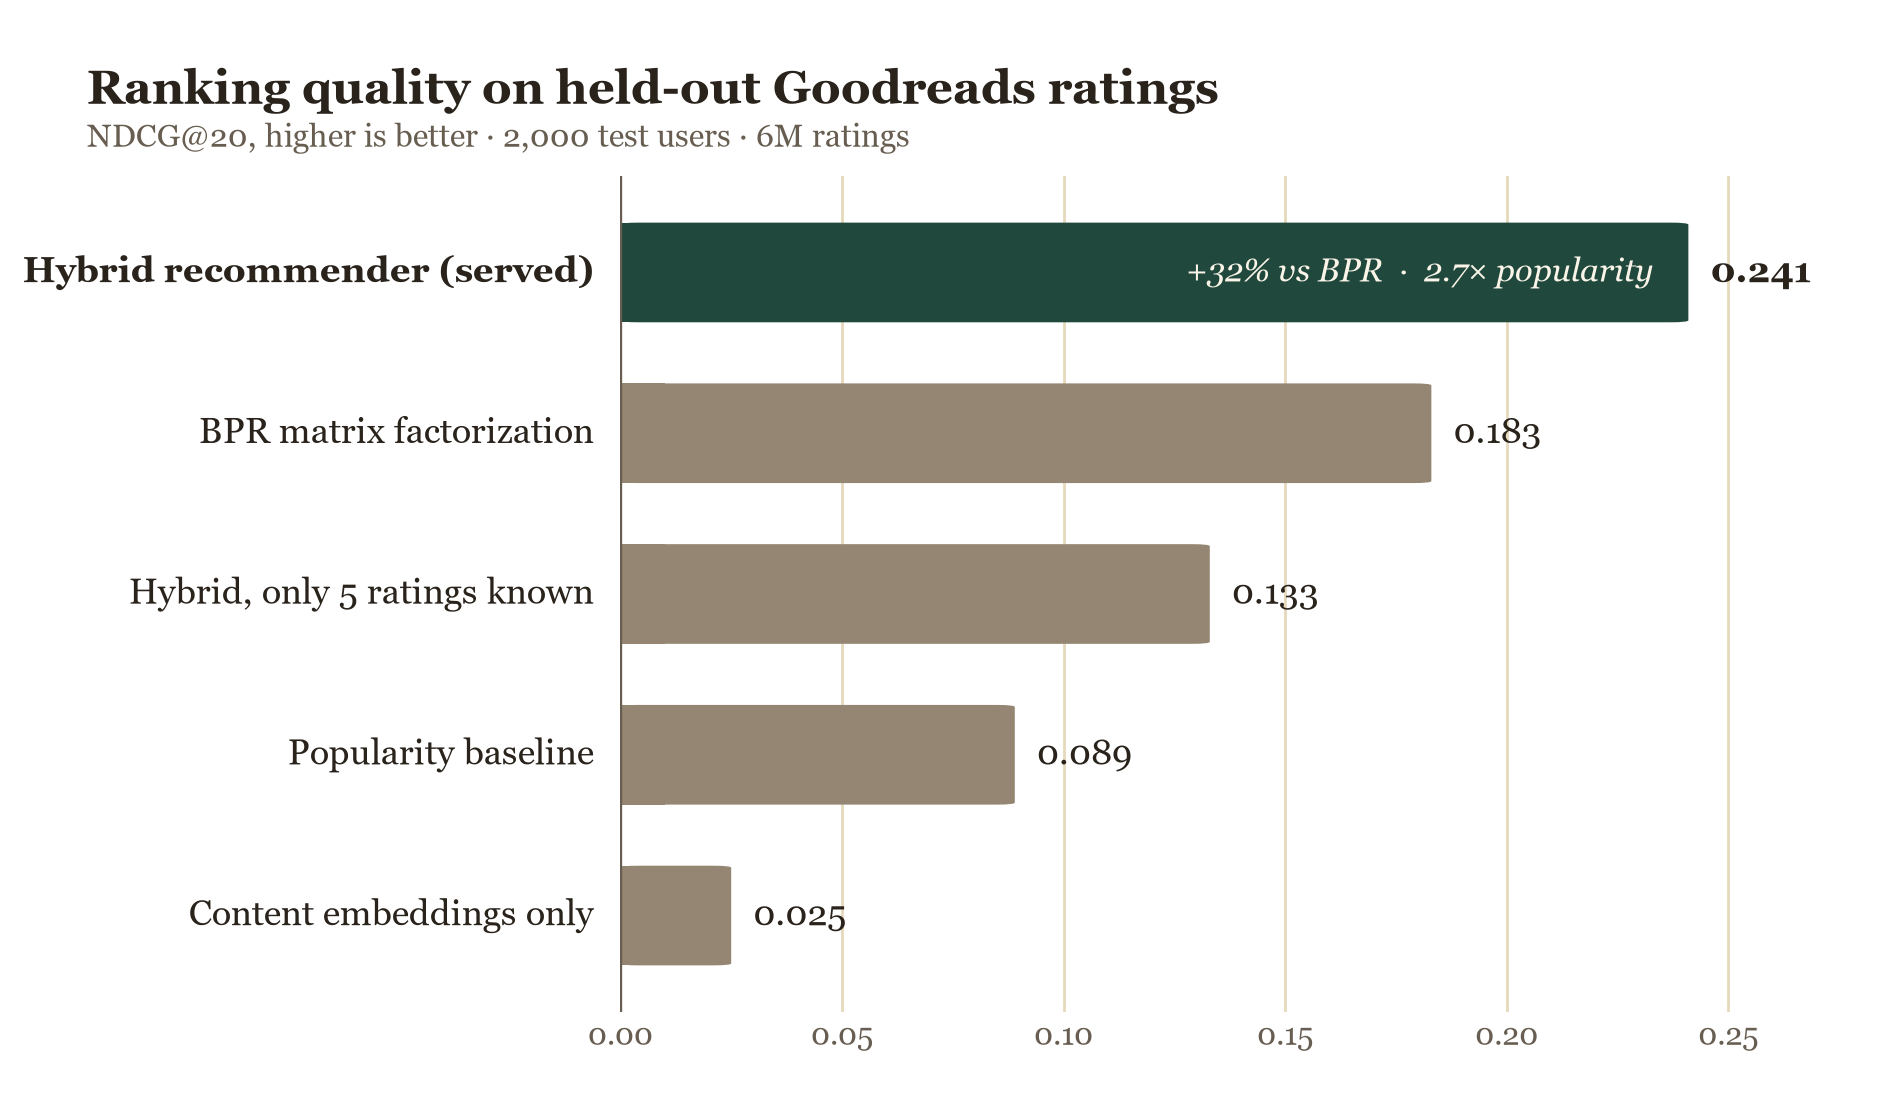
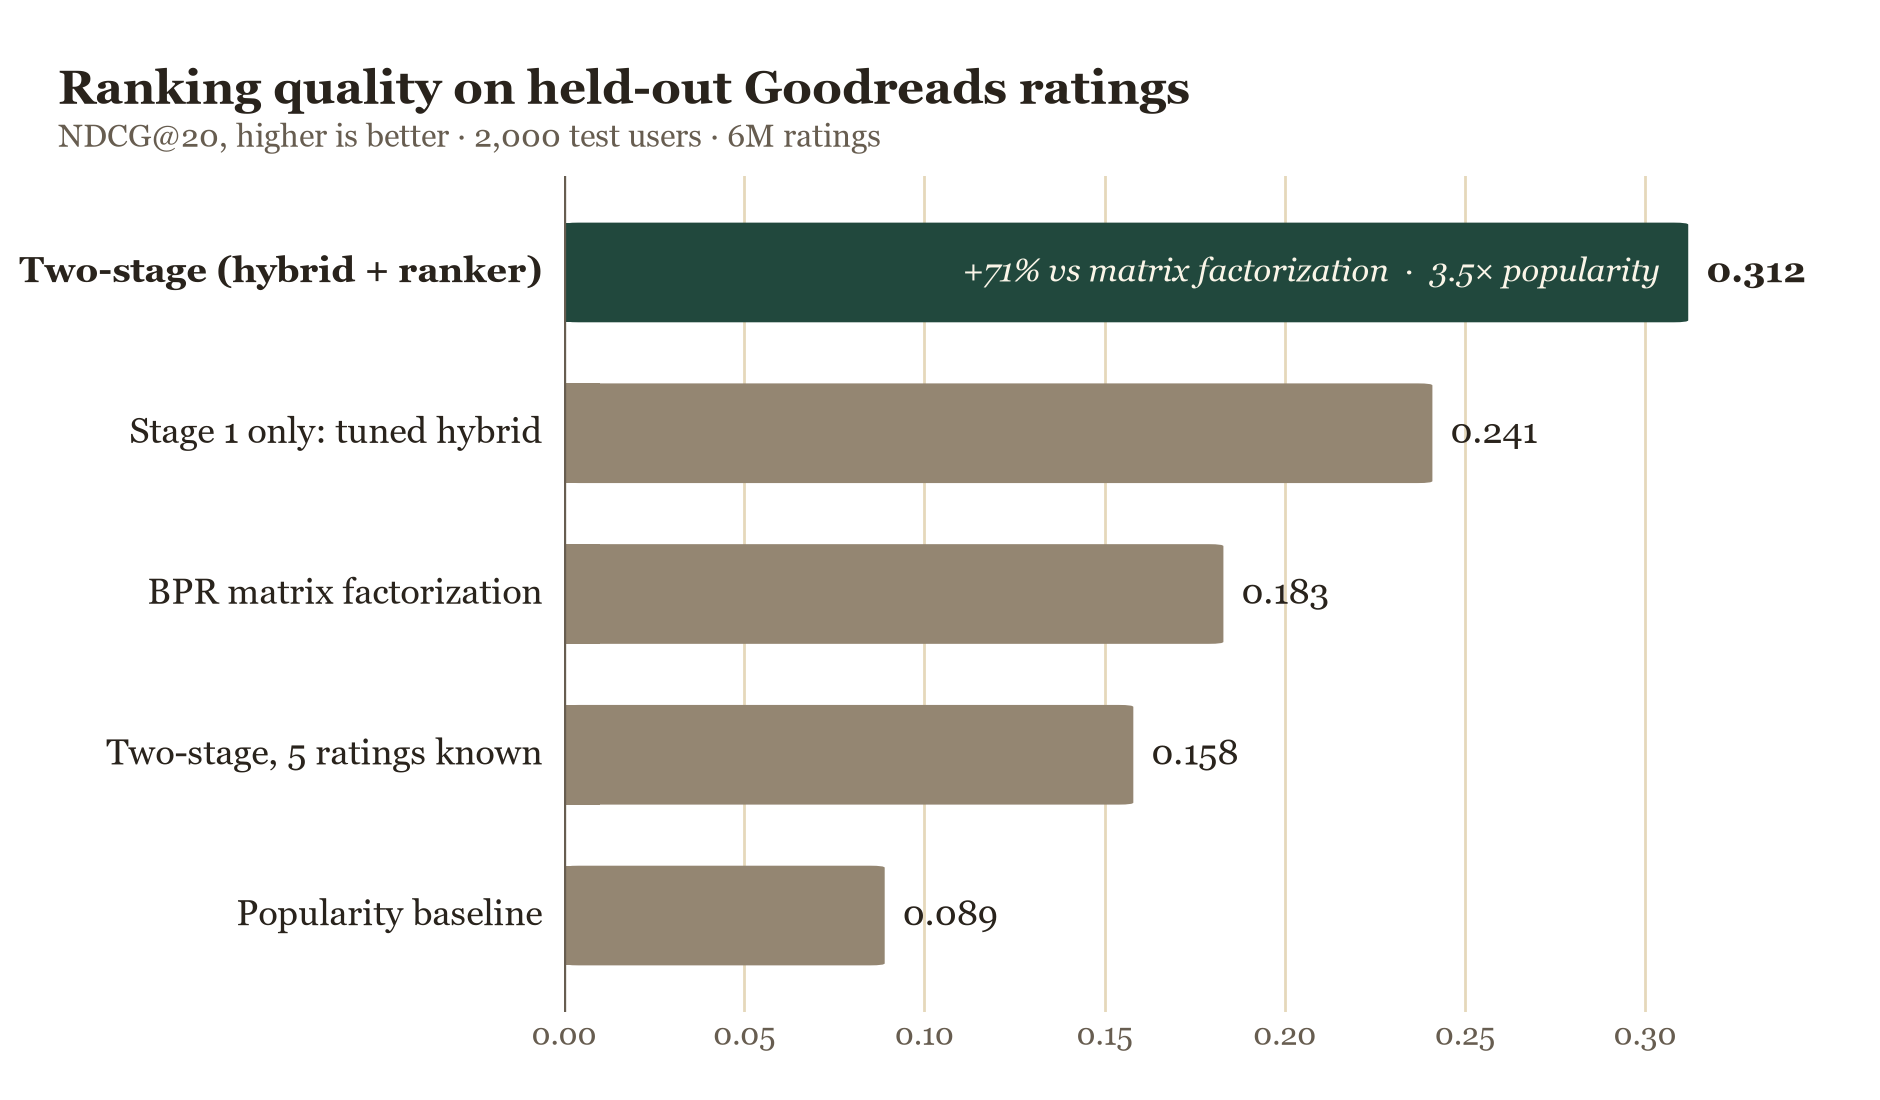
Update Alexandria results: two-stage ranking

diff --git a/src/data/portfolio.js b/src/data/portfolio.js
@@ -26,6 +26,7 @@ export const projects = [
     approach: [
       "Trained BPR matrix factorization in PyTorch on 6M Goodreads ratings and embedded 10k books with sentence-transformers, tracking experiments in MLflow.",
       "Built a hybrid ranker that folds in a user vector from each new rating in under 1 ms, shifting from content-based to collaborative signals as feedback grows.",
+      "Added a LightGBM LambdaMART second stage that reorders the top 200 candidates using signal agreement, author and series continuity, lifting NDCG@20 by 30%.",
       "Served it through FastAPI with Postgres + pgvector, a Claude-powered onboarding chat, and a Next.js frontend, deployed with Docker and GitHub Actions CI.",
       "Tuned serving hyper-parameters on a validation split, uncovering a popularity-bias failure that collapsed catalog coverage to 2%.",
       "Enriched 8,000+ books with Open Library descriptions, and added MMR diversity, an author cap, and explanations for every recommendation."
@@ -33,7 +34,7 @@ export const projects = [
 
     stats: [
       {
-        value: "+32%",
+        value: "+71%",
         label: "NDCG@20 vs Matrix Factorization"
       },
       {
@@ -43,13 +44,14 @@ export const projects = [
     ],
 
     highlights: [
-      "Served hybrid reaches NDCG@20 of 0.241, 2.7× a popularity baseline, while updating from new ratings instantly.",
-      "Beats the popularity baseline by 49% with only 5 known ratings, addressing cold start.",
+      "Two-stage ranking reaches NDCG@20 of 0.312, 3.5× a popularity baseline, while updating from new ratings instantly.",
+      "Beats the popularity baseline by 77% with only 5 known ratings, addressing cold start.",
       "Live on Vercel, Render, and Neon with CI covering unit, pipeline, and Postgres integration tests."
     ],
 
     technologies: [
       "PyTorch",
+      "LightGBM",
       "FastAPI",
       "PostgreSQL",
       "pgvector",
@@ -63,9 +65,9 @@ export const projects = [
     images: [
       {
         src: "/images/alexandria-results.png",
-        alt: "Bar chart of NDCG@20 by model: hybrid 0.241, BPR 0.183, hybrid with 5 ratings 0.133, popularity 0.089, content only 0.025",
+        alt: "Bar chart of NDCG@20 by model: two-stage 0.312, stage 1 hybrid 0.241, BPR 0.183, two-stage with 5 ratings 0.158, popularity 0.089",
         caption:
-          "Ranking quality on held-out Goodreads ratings. The served hybrid beats matrix factorization and popularity baselines."
+          "Ranking quality on held-out Goodreads ratings. A learned second-stage ranker adds 30% over the tuned hybrid."
       }
     ],
 
